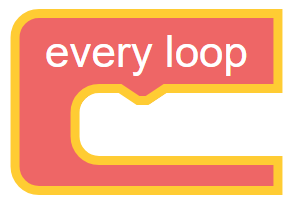
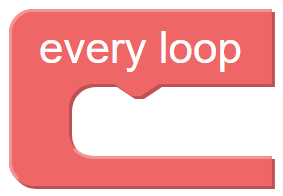
Filling in the Control section and its images

Changed region(s): [[0.0283, 0.0306, 0.9894, 0.9796], [0.1413, 0.1837, 0.5371, 0.398]]

diff --git a/docs/source/control.rst b/docs/source/control.rst
@@ -2,68 +2,89 @@
 Control
 =======
 
-
-
 Control blocks direct program flow or provide time-related functionality.
 
+.. image:: images/control-palette.png
+   :width: 200
+   :align: center
 
+Each block is described in turn below.
 
 On Start
 --------
 
+The "on start" block is intended to contain other action blocks that will run first and only once when the KookaBlockly script starts.
 
-TEXT
-TEXT
+Typically the blocks are for the initialisation of :ref:'variables', :ref:'sensors', and :ref:'actuators'.
 
-
-
-
-
+.. image:: images/on-start.png
+   :width: 150
+   :align: center
 
 
 Scheduled Loop
 --------------
 
+This block is a loop that repeatedly runs the blocks nested inside at the time interval specified in the numeric box. 
 
-
-This block is a loop that runs the blocks nested inside it every at the time interval specified. 
 The loop will continue forever at the defined period unless the program is externally stopped.
-The time specification is in decimal seconds, for example 0.001 is 1 millisecond.
 
-Repeat
-------
+The time specification is a number in decimal seconds, for example: 1 is 1 second, and 0.001 is 1 millisecond.
+
+.. image:: images/scheduled-loop.png
+   :width: 150
+   :align: center
 
 
-This block runs the blocks nested inside it in a repeated loop.  The loop will run forever unless externally stopped.  Another name is a Repeat Forever loop.
+Every Loop
+----------
+
+This block runs the blocks nested inside in a repeated loop.  The loop will run forever unless externally stopped by exiting the script, or resetting the Kookaberry or removing power from the Kookaberry.  Another name is a Repeat Forever loop.
+
+.. image:: images/every-loop.png
+   :width: 150
+   :align: center
+
 
 Exit Program
 ------------
 
- 
+This block directs the running program to exit.
 
-Causes the running program to exit
+.. image:: images/exit-program.png
+   :width: 150
+   :align: center
 
 Sleep
 -----
-
  
-This block causes the program to wait / pause for the specified time before continuing to the next block.  Decimal portions of seconds are allowed.
+This block causes the program to wait / pause for the specified time before continuing to the next block.  The number in the box specifies the duration of sleep in decimal seconds.
+
+.. image:: images/sleep.png
+   :width: 200
+   :align: center
+
 
 Time (s)
 --------
 
- 
-This block returns a value in whole seconds since the Kookaberry’s epoch time ( 00:00 on 1st 
+This block returns a value in whole seconds since the Kookaberry’s epoch time ( 00:00:00 on 1st 
 January 2000).  By subtracting successive values given by this block, the elapsed interval in 
 seconds between the samples may be calculated which is useful for timing functions.
+
+.. image:: images/time-secs.png
+   :width: 200
+   :align: center
 
 
 Time (ms)
 ---------
 
- 
-
-This block returns a value in milliseconds since the Kookaberry’s epoch time (00:00 on 1st 
+This block returns a value in milliseconds since the Kookaberry’s epoch time (00:00:00 on 1st 
 January 2000).  By subtracting successive values given by this block, the elapsed interval in 
-seconds between the samples may be calculated which is useful for high-resolution timing 
+milliseconds between the samples may be calculated which is useful for high-resolution timing 
 functions.
+
+.. image:: images/time-msecs.png
+   :width: 200
+   :align: center
